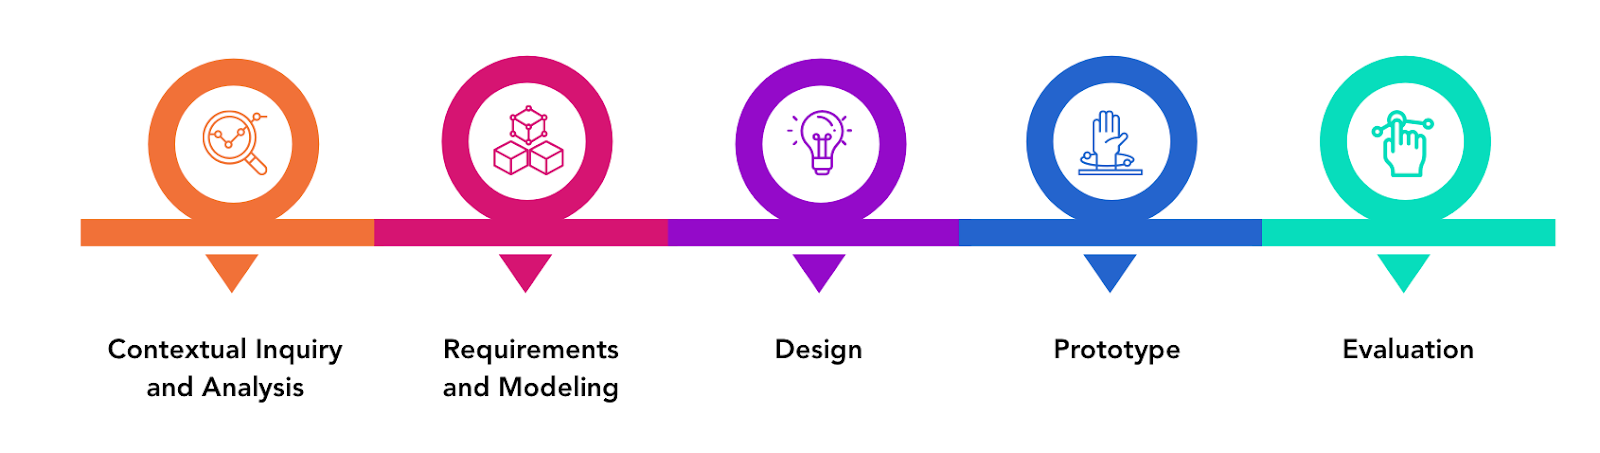
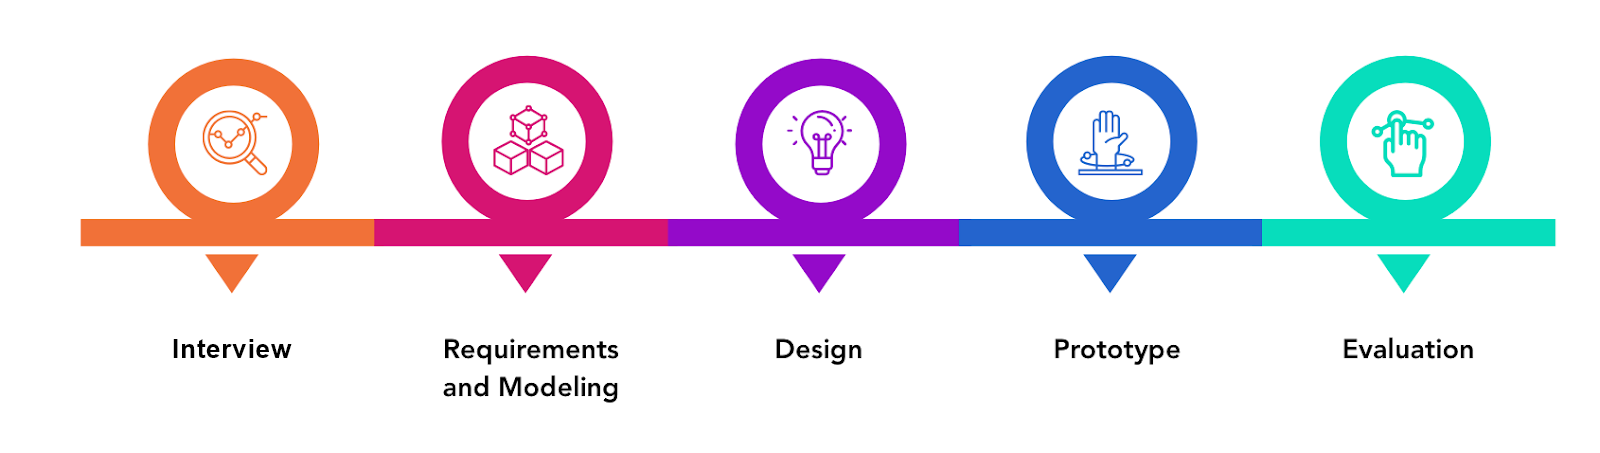
minor

Changed region(s): [[0.0625, 0.7417, 0.2188, 0.8035], [0.0938, 0.8344, 0.1875, 0.8962]]

diff --git a/WeVol.html b/WeVol.html
@@ -55,10 +55,10 @@
         		<p>Volunteering can gain a sense of accomplishment while enabling stronger relationships and is beneficial to the society. According to the study of volunteering trend in America in 2015 by the Bureau of Labor Statistics, volunteer rates were <b>lowest among 20 to 24-year-olds</b> (18.4%). We decided tackle this issue by proposing a mobile application as 86% of Americans in this age group uses a smartphone on a daily basis. Thus, our app aims to encourage them to volunteer by making it <b>accessible.</b></p>
 				<h2>Design Process</h2>
 				<img style="width: 100%;" src="assets/img/wevol_project/Process.png">
-				<h2>Contextual Inquiry - Interview</h2>
+				<h2>Interview</h2>
 				<p>I started off with an interview to learn about our potential target audience. Including painpoints they face, current habits, objectives, and motivation.</p>
 				<img style="width: 100%;" src="assets/img/wevol_project/Volunteer.png">
-				<h2>Contextual Inquiry - Affinity Diagram</h2>
+				<h2>Affinity Diagram</h2>
 				<p>I then gathered <b>qualitative data</b> from the interviews and formed them into sticky notes. By categorizing the sticky notes, the affinity diagram gave us insight to: <blockquote>&#8226 Current volunteering process<br>&#8226 Motivations<br>&#8226 Expectations</blockquote></p>
 				<img style="display:block;width: 70%;margin:auto;" src="assets/img/wevol_project/WAAD.JPG">
 				<p style="font-style: italic;text-align: center;">Fig: Work Activity Affinity Diagram</p>
